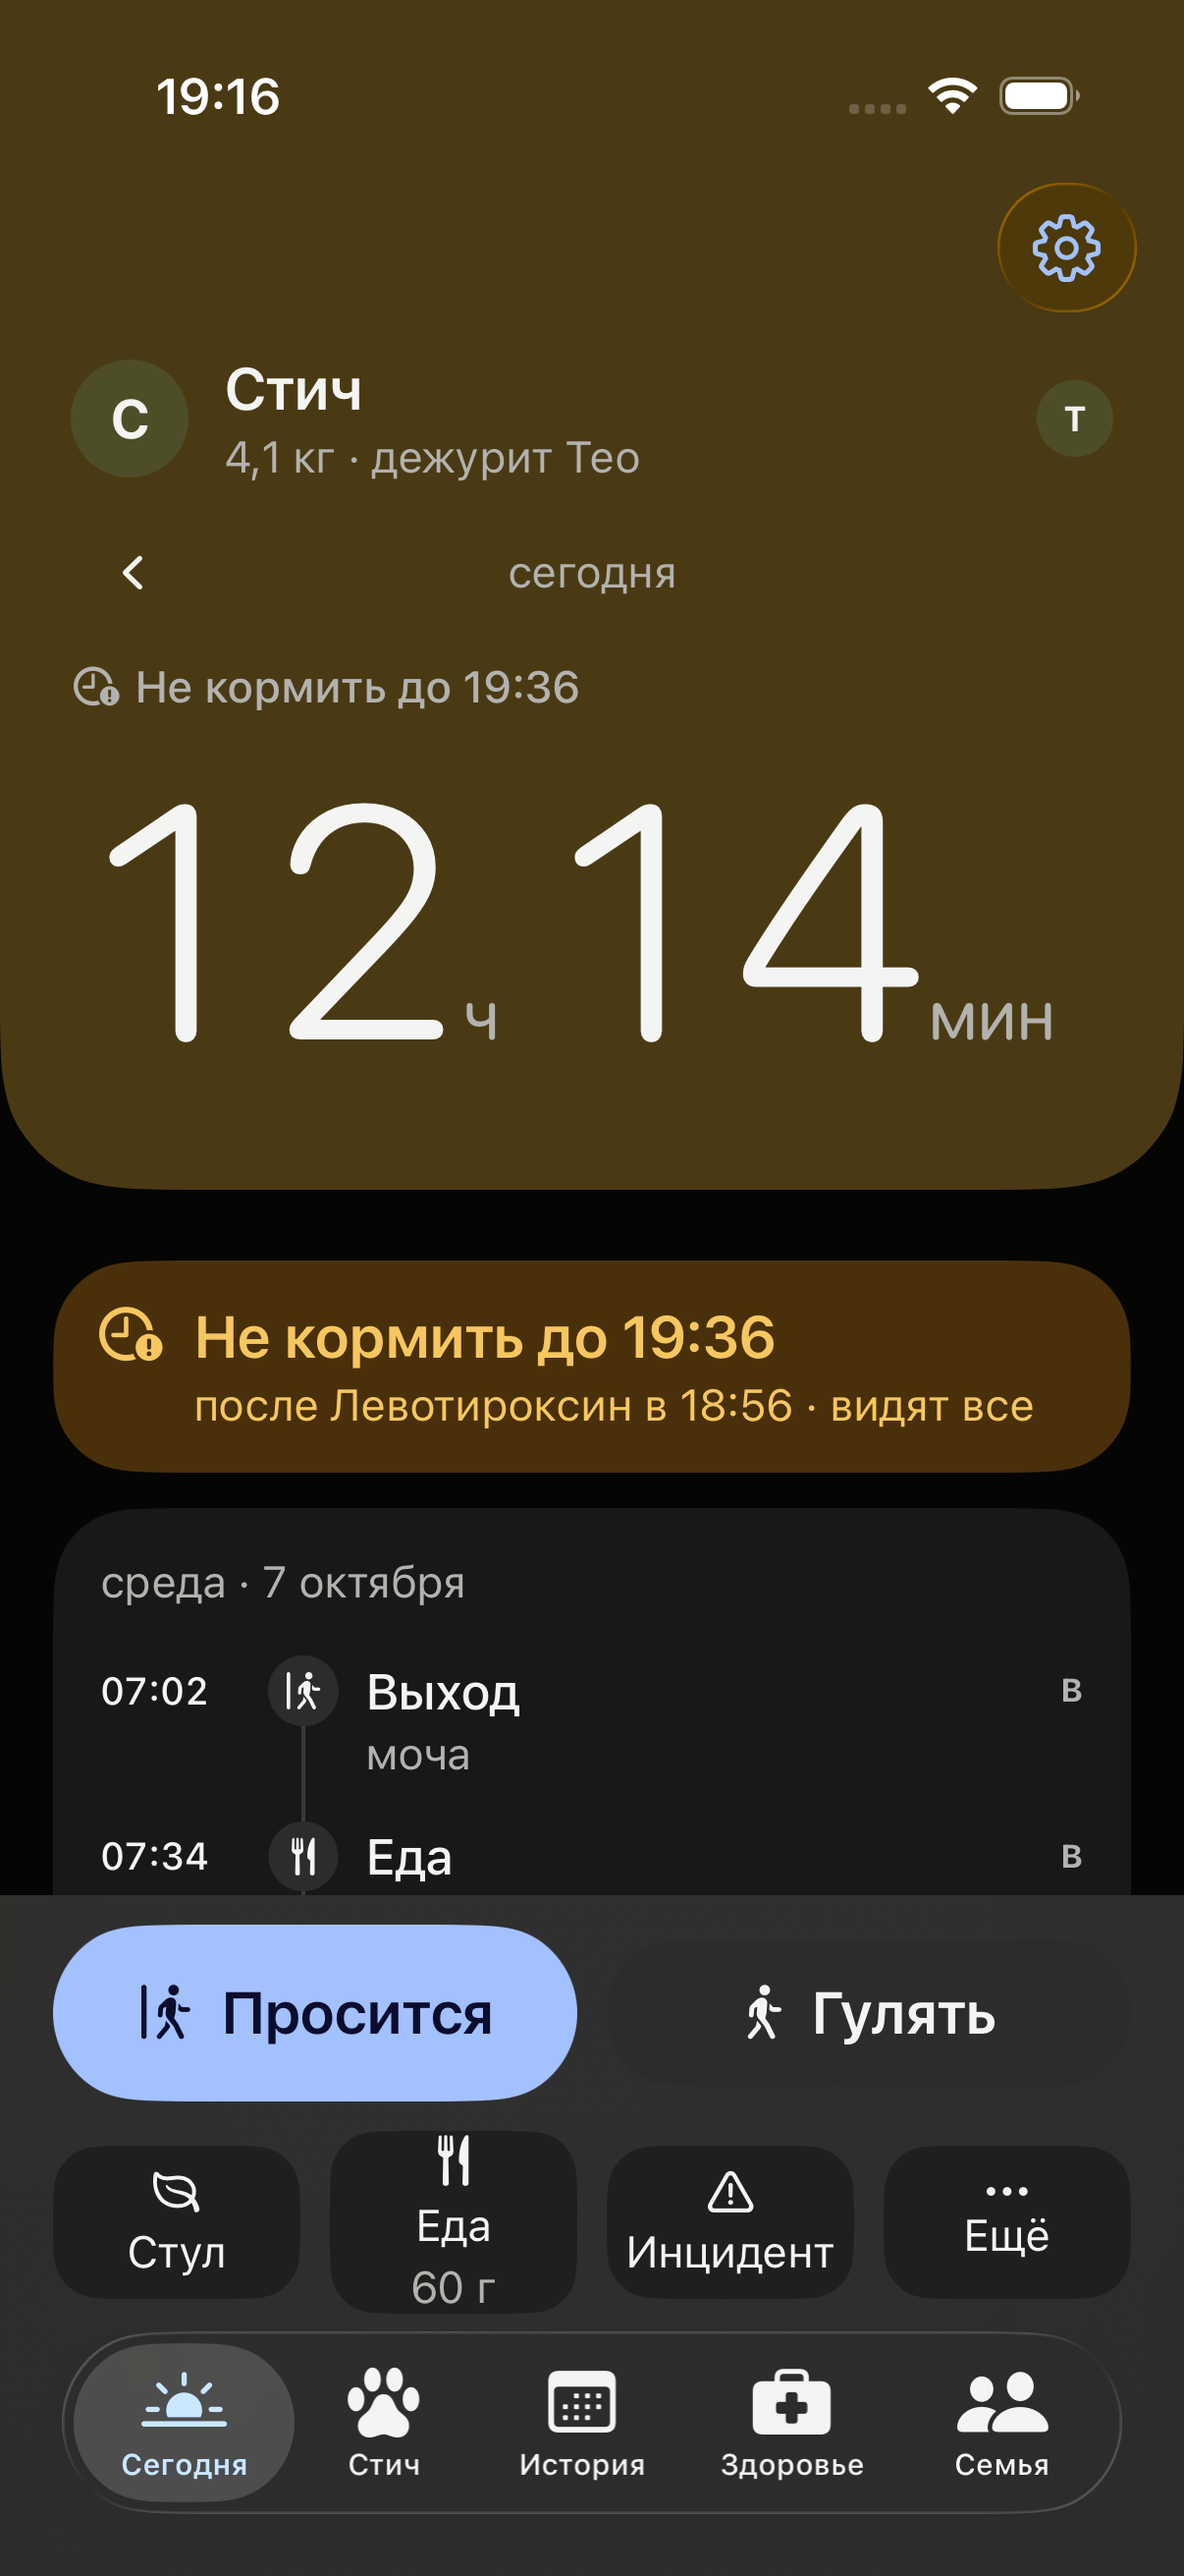
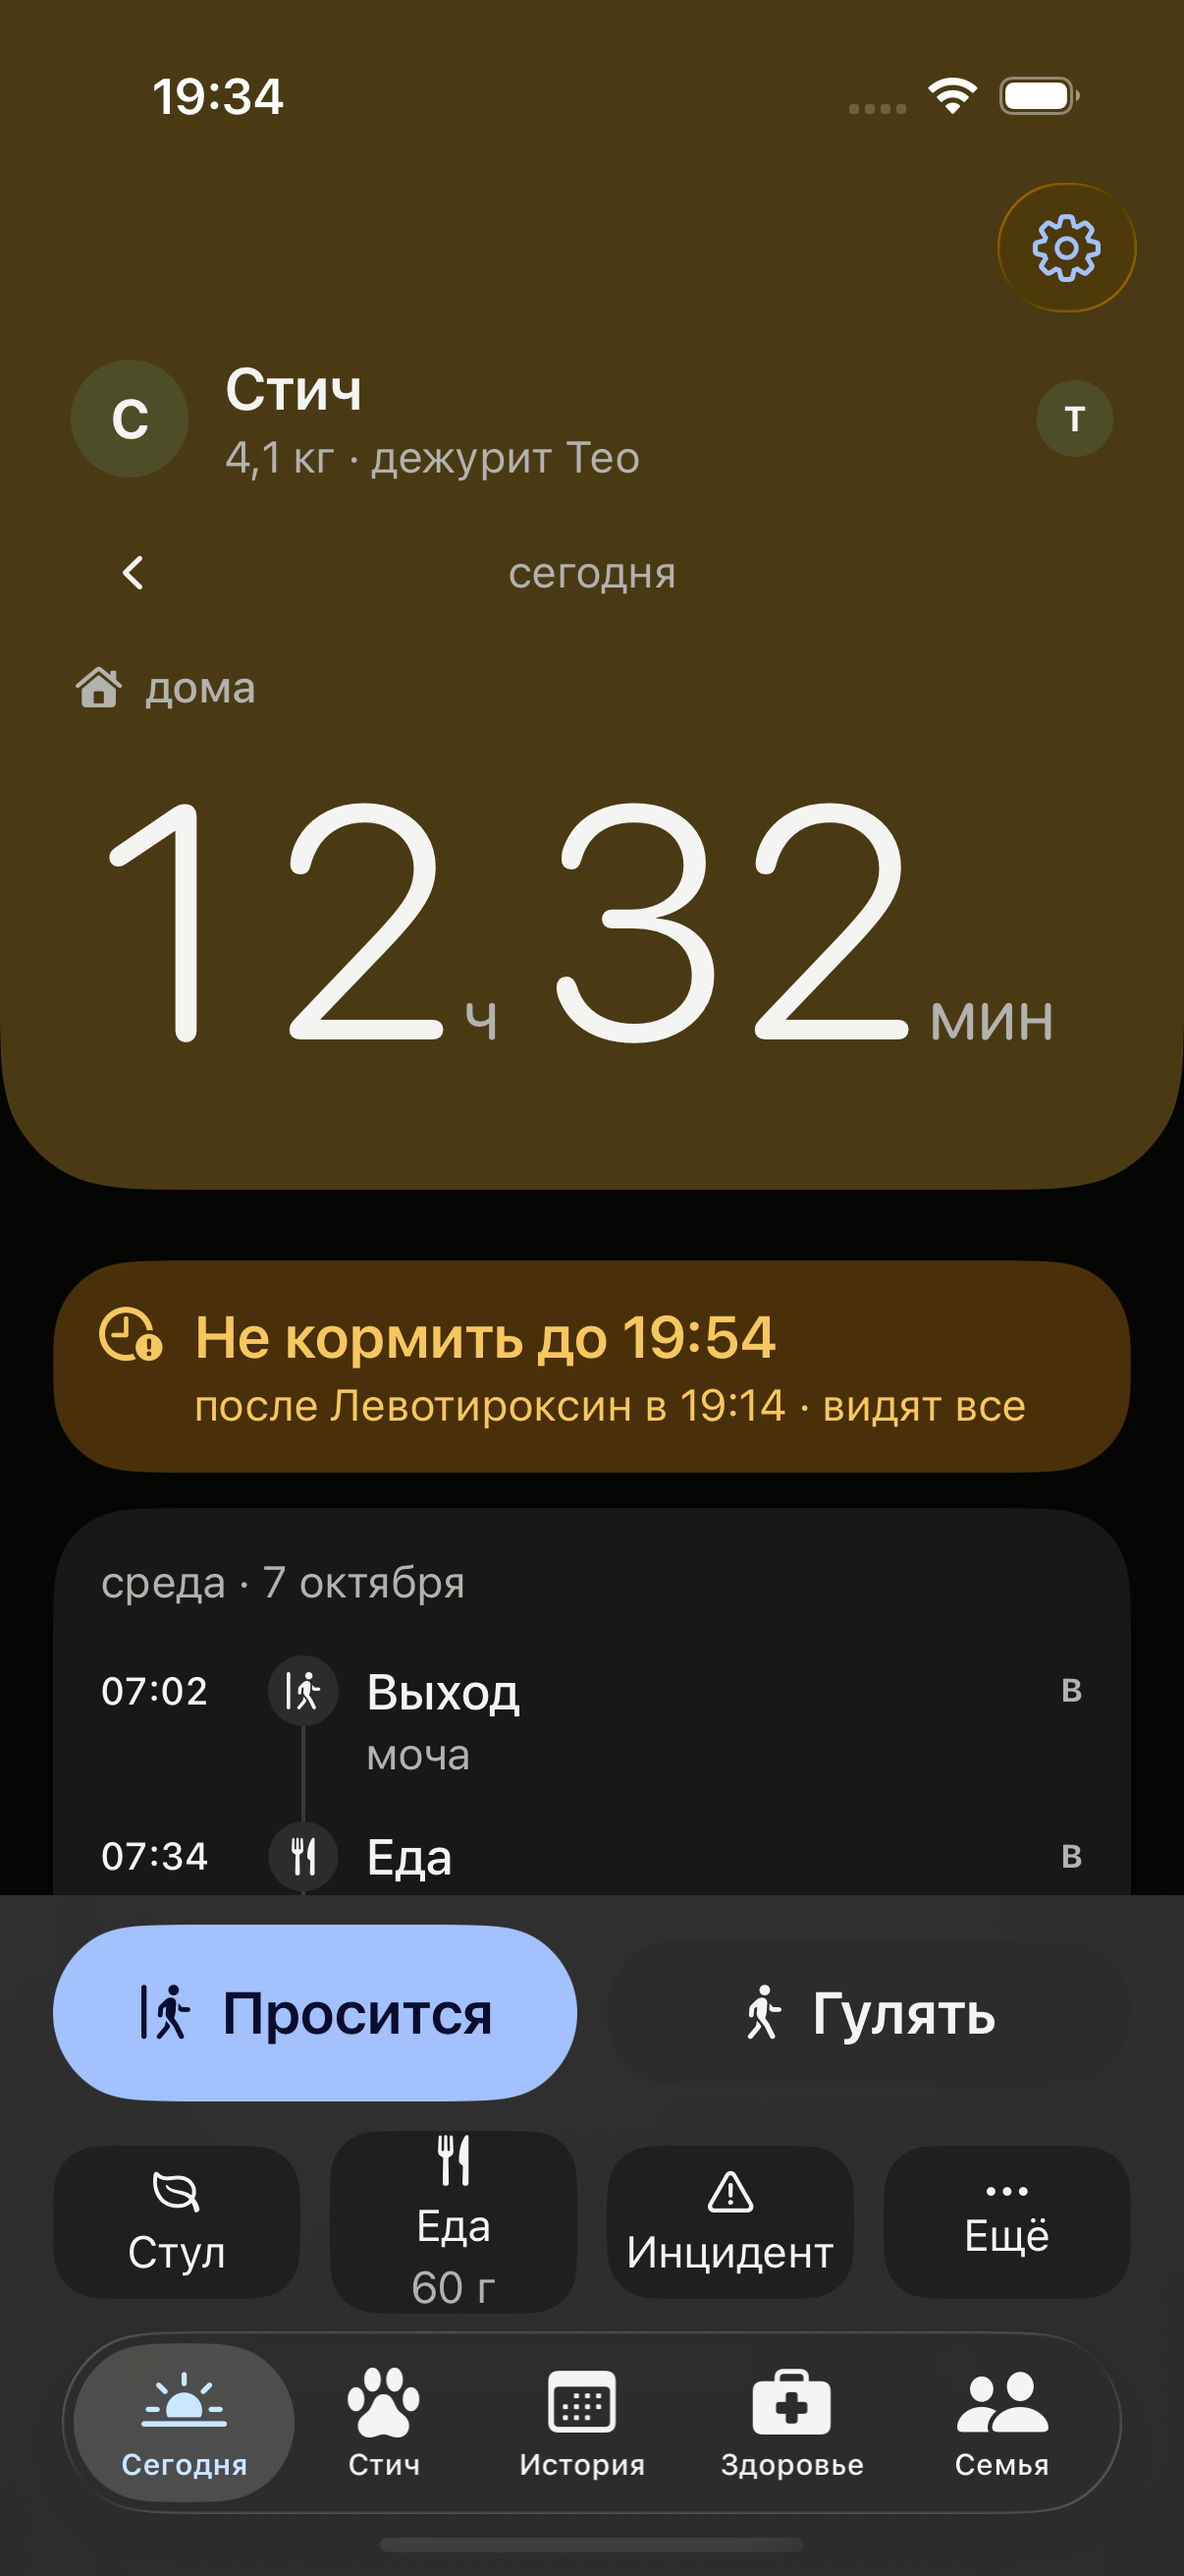
Подпись зависит от ВИДА ПОКАЗАНИЯ, а не от режима дня — число перестало быть безымянным
Кадр натощак показал то, о чём не спрашивали: дубль строки был
СЛЕДСТВИЕМ, а не причиной.

  подпись   🕐 Не кормить до 19:36      ← состояние
  число     12 ч 14 мин                 ← БЕЗ ИМЕНИ
  плашка    🕐 Не кормить до 19:36 · после Левотироксин в 18:56

Строка состояния въехала в слот, принадлежащий подписи показания,
вытеснила её — и «двенадцать часов» осталось без ответа на вопрос
«чего двенадцать». Разбор projects-74 по кадру; я видел дубль
и не видел причину.

ПРАВИЛО ОБОБЩЕНО. Час назад подпись чинили для ОДНОГО режима
(«дома» вместо «на улице были»). Кадр показал, почему одного мало:

  показание — часы дома        подпись называет величину: «🏠 дома»
  показание — предложение      подписи нет: «Сегодня ещё не выходили»
                               не нуждается в имени, «дома» над ним — ложь
  показание — таймер прогулки  подписи нет: таймер называет себя сам

  > Слот, у которого один смысл, не может потерять его в одном
  > режиме из пяти.

Состояние не потеряно: оно живёт плашкой прямо под блоком, и там
у него препарат, час и «видят все» — три факта вместо одной строки.

ПРИНЯТО КАДРОМ, а не рассуждением: янтарный блок с подписью «дома»
противоречием НЕ читается. Цвет говорит о состоянии, подпись о числе,
плашка объясняет цвет. Я своё предложение проверить не мог бы —
проверял чужое, и оно устояло.

Сканер сторожа переписан под новую форму: брал ветку `.usual`,
которой больше нет, — берёт ВСЕ подписи. Запрет не ослаб: он про пару
[…]

diff --git a/TogoTests/PosterCaptionTests.swift b/TogoTests/PosterCaptionTests.swift
@@ -121,14 +121,15 @@ struct PosterCaptionTests {
             правь порог.
             """)
 
-        let подписи = try Self.подписиОбычногоДня(код)
+        let подписи = try Self.подписи(код)
 
         // Счётчик осмотренного: разбор, переставший что-либо находить,
         // молчит так же, как тот, кому нечего сказать.
         #expect(!подписи.isEmpty, """
-            в `подписьПлаката` не нашлось ветки `.usual` с текстом.
+            в `подписьПлаката` не нашлось ни одной подписи с текстом.
             Разбор не состоялся — тишина ниже ничего не значит.
-            Если ветку переименовали, правь разбор, а не удаляй проверку.
+            Если свойство переименовали или подпись перестала быть
+            литералом, правь разбор, а не удаляй проверку.
             """)
 
         for подпись in подписи {
@@ -156,22 +157,24 @@ struct PosterCaptionTests {
         return try String(contentsOf: путь, encoding: .utf8)
     }
 
-    /// Тексты подписи в ветке `.usual` — из исходника, а не списком.
+    /// Все тексты подписи — из исходника, а не списком.
     ///
-    /// Разбор по скобкам: ветка кончается следующим `case` того же
-    /// уровня. Разбор по одной строке ошибается в сторону полноты
-    /// и притащил бы соседние ветки — у нас это уже дало снимок схемы
-    /// богаче настоящего.
-    private static func подписиОбычногоДня(_ код: String) throws -> [String] {
+    /// **Разбор по ветке `.usual` снят 07.10.2026 вместе с самой
+    /// веткой.** Подпись перестала зависеть от режима дня и зависит
+    /// теперь от вида показания: имя нужно только голому числу часов.
+    /// Сканер, искавший `case .usual:`, нашёл бы ноль — и порог
+    /// «нашлось ли что осматривать» покраснел бы честно.
+    ///
+    /// Новая форма проще и строже: берём ВСЕ подписи, какие бы ветки
+    /// ни появились. Запрет от этого не ослаб — он про пару «подпись
+    /// и величина», а не про имя ветки.
+    private static func подписи(_ код: String) throws -> [String] {
         guard let начало = код.range(of: "private var подписьПлаката") else { return [] }
         let тело = код[начало.upperBound...]
-        guard let usual = тело.range(of: "case .usual:") else { return [] }
-        let хвост = тело[usual.upperBound...]
-        let конец = хвост.range(of: "case .")?.lowerBound ?? хвост.endIndex
-        let ветка = String(хвост[..<конец])
-
+        // Конец свойства — следующее объявление того же уровня.
+        let конец = тело.range(of: "\n    private var")?.lowerBound ?? тело.endIndex
         var найдено: [String] = []
-        var остаток = Substring(ветка)
+        var остаток = тело[..<конец]
         while let метка = остаток.range(of: "text:") {
             let после = остаток[метка.upperBound...]
             guard let открыть = после.firstIndex(of: "\""),

diff --git a/docs/кадры/README.md b/docs/кадры/README.md
@@ -38,7 +38,8 @@
 правильному кадру не видно, что именно чинилось.
 
 | `плакат-04-первый-день-нейтральный-принят.png` | режим `quiet`: нейтральный блок, «Сегодня ещё не выходили», **статусной подписи нет** — `carriesStatusColour` сработал |
-| `плакат-05-натощак-янтарь-принят.png` | режим `fasting`: тёмный янтарь, «Не кормить до 19:36» |
+| `плакат-05-натощак-янтарь-принят.png` | режим `fasting` ПОСЛЕ правки: «🏠 дома» над числом, состояние — плашкой ниже, дубля нет |
+| `плакат-07-ДЕФЕКТ-дубль-строки-и-число-без-имени.png` | как было: «Не кормить до 19:36» и подписью, и плашкой, а число **без имени** |
 | `плакат-06-тревога-терракот-принят.png` | режим `alarm`: тёмный терракот, «нужно внимание», ниже «Похоже, пора звонить · Вырвал · третий раз за 6 часов» |
 
 ## Все пять режимов приняты 07.10.2026
@@ -63,8 +64,23 @@ firstDay=#181818 · vomitAlarm=#5E2A22
 там подпись «нужно внимание» и плашка «Похоже, пора звонить ·
 Вырвал · третий раз за 6 часов» **дополняют** друг друга.
 
-Не чинил: это решение дизайна, а не дефект кода, и у плашки есть
-то, чего нет у подписи, — автор дозы, час и дорога к действию.
+**Починено 07.10 вечером, и разбор `projects-74` по кадру оказался
+точнее первого:** дубль был СЛЕДСТВИЕМ. Строка состояния въехала
+в слот, принадлежащий подписи показания, вытеснила её — и число
+осталось без имени: «12 ч 14 мин» без ответа на вопрос «чего
+двенадцать часов».
+
+Правило обобщено: **подпись зависит от ВИДА ПОКАЗАНИЯ, а не от режима
+дня.** Имя нужно только голому числу часов; таймер прогулки и
+предложение называют себя сами. Состояние живёт плашкой, где у него
+препарат, час и «видят все» — три факта вместо одной строки.
+
+> Слот, у которого один смысл, не может потерять его в одном режиме
+> из пяти.
+
+Принято кадром: янтарный блок с подписью «дома» противоречием
+не читается — цвет говорит о состоянии, подпись о числе, плашка
+объясняет цвет.
 
 ## Шапка-плакат и граница каталога — `togo-3b`, 07.10.2026
 
